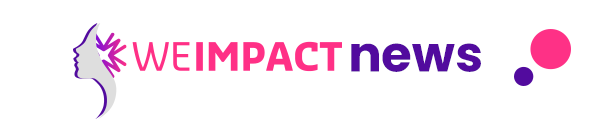
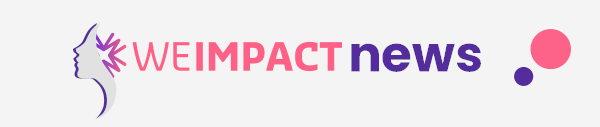
correção tamanho imagens Eventos e cor do fundo do Header

diff --git a/index.html b/index.html
@@ -125,8 +125,8 @@
                                                             Impact, e você já pode se inscrever:<br>
                                                         </p>
 
-                                                        <img src="./img/Eventos_N12_01.png"
-                                                            style="-ms-interpolation-mode: bicubic; border: 0; line-height: 100%; outline: none; text-decoration: none; width: 100%; display: inline; height: auto; max-width: 598px;"
+                                                        <img src="https://weimpact-tech.github.io/newsletter-12/img/Eventos_N12_01.png"
+                                                            style="-ms-interpolation-mode: bicubic; border: 0; line-height: 100%; outline: none; text-decoration: none; width: 60%; display: inline; height: auto; max-width: 598px;"
                                                             alt="">
 
                                                         <p
@@ -148,16 +148,18 @@
                                                             que atua por meio de uma rede de especialistas em entrega
                                                             100% feminina.<br>
                                                         </p>
-                                                        <a href="https://www.meetup.com/pt-BR/Microsoft-Reactor-Sao-Paulo/events/283913720/"
-                                                            target="_blank"
-                                                            style="-webkit-text-size-adjust: 100%; -ms-text-size-adjust: 100%;">
-                                                            <button id="botaoLaranja"
-                                                                style="border: none; margin: 20px; font-weight: 700; font-family: 'Open Sans', sans-serif; font-size: 15px; height: 25px; color: #ffffff; background-color: #bb3d22;">
-                                                                Inscreva-se
-                                                            </button>
-                                                        </a>
-                                                        <img src="./img/Eventos_N12_02.png"
-                                                            style="-ms-interpolation-mode: bicubic; border: 0; line-height: 100%; outline: none; text-decoration: none; width: 100%; display: inline; height: auto; max-width: 598px;"
+                                                        <p>
+                                                            <a href="https://www.meetup.com/pt-BR/Microsoft-Reactor-Sao-Paulo/events/283913720/"
+                                                                target="_blank"
+                                                                style="-webkit-text-size-adjust: 100%; -ms-text-size-adjust: 100%;">
+                                                                <button id="botaoLaranja"
+                                                                    style="border: none; margin: 20px; font-weight: 700; font-family: 'Open Sans', sans-serif; font-size: 15px; height: 25px; color: #ffffff; background-color: #bb3d22;">
+                                                                    Inscreva-se
+                                                                </button>
+                                                            </a>
+                                                        </p>
+                                                        <img src="https://weimpact-tech.github.io/newsletter-12/img/Eventos_N12_02.png"
+                                                            style="-ms-interpolation-mode: bicubic; border: 0; line-height: 100%; outline: none; text-decoration: none; width: 60%; display: inline; height: auto; max-width: 598px;"
                                                             alt="">
                                                         <p
                                                             style="-webkit-text-size-adjust: 100%; -ms-text-size-adjust: 100%; font-size: 16px; text-align: left;">
